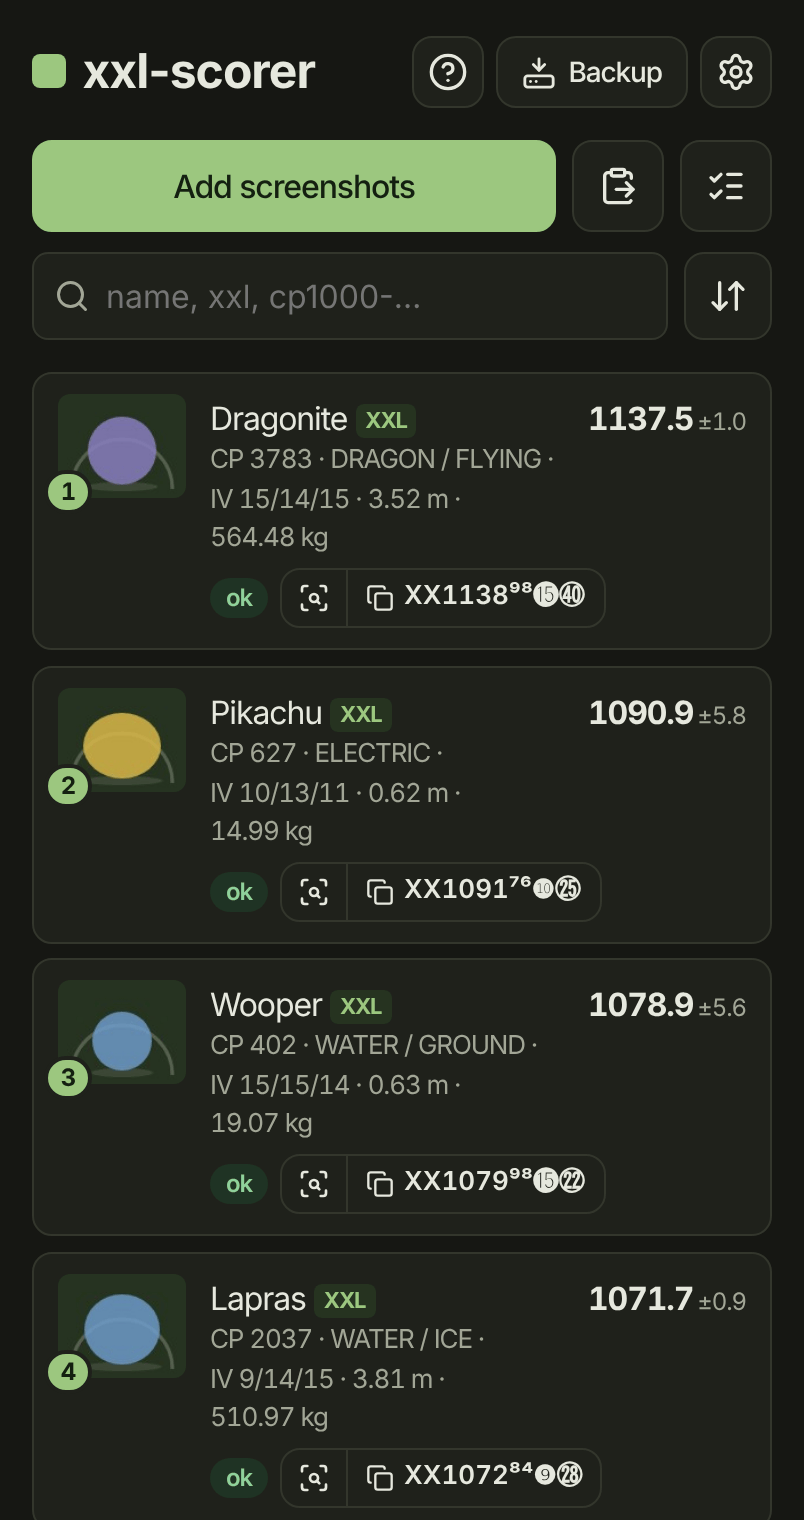
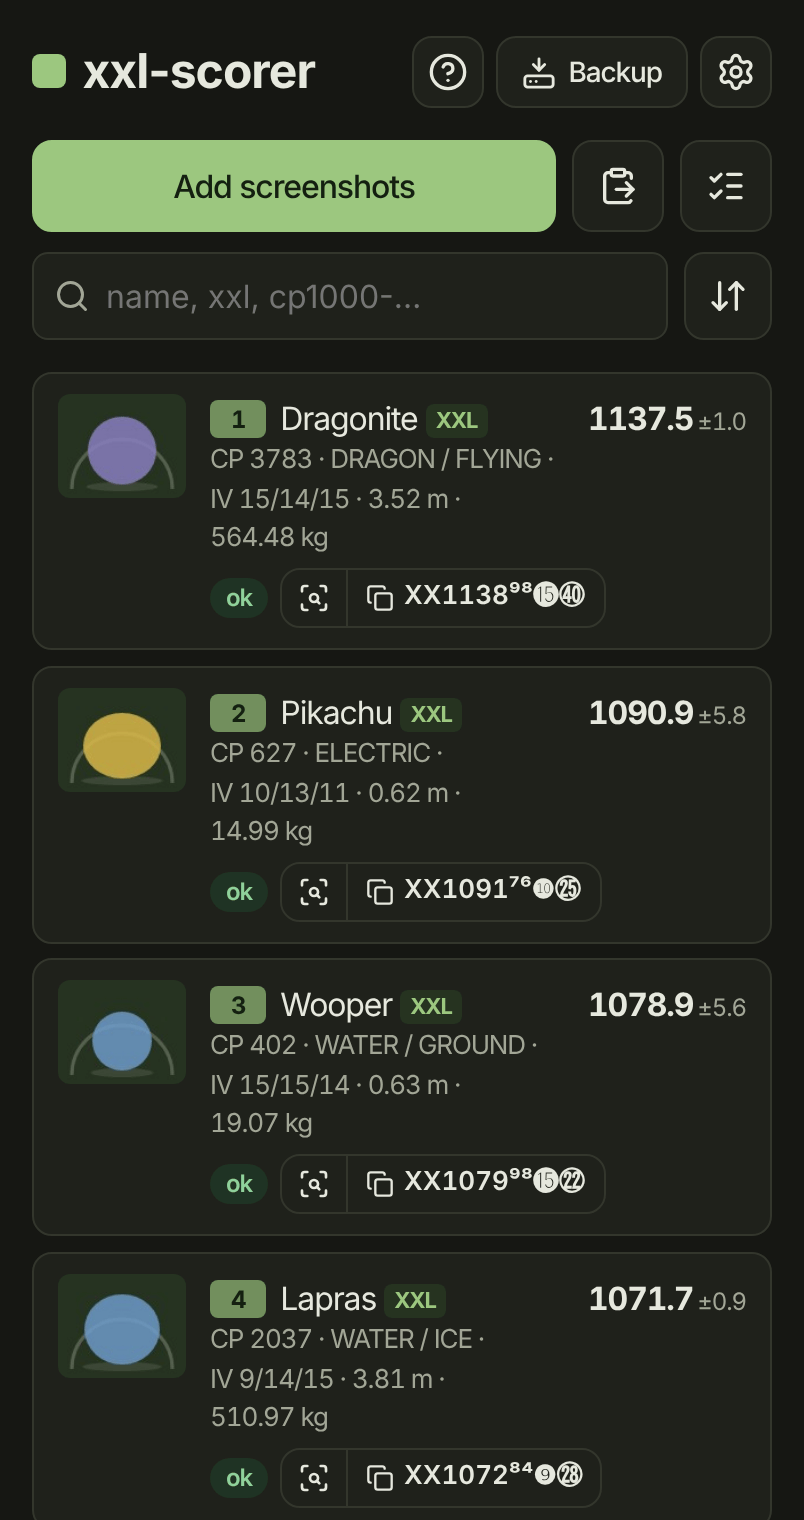
Rank before the name, tinted, not on the picture
On the picture the badge covered too much of the small thumbnail. It
now stands in front of the name, as a tag like the XXL one, two digits
wide so the names line up from 9 to 10. The top ten are tinted with the
accent two thirds into the card colour (new --rank-top tokens: text
contrast 5.6 light, 4.6 dark); 11 and up stay grey.

README pictures redrawn.

diff --git a/app.css b/app.css
@@ -8,6 +8,8 @@
 	--accent: #4d7a3a;
 	--accent-text: #ffffff;
 	--accent-soft: #e5eedd;
+	--rank-top: #8aa77b;		/* the accent, two thirds into --surface */
+	--rank-top-text: #23261f;
 	--ok: #2f7a3e;
 	--ok-soft: #e1f0e3;
 	--warn: #94600a;
@@ -28,6 +30,8 @@
 		--accent: #9cc77f;
 		--accent-text: #142010;
 		--accent-soft: #263320;
+		--rank-top: #728f5d;
+		--rank-top-text: #142010;
 		--ok: #8fd19b;
 		--ok-soft: #1f3324;
 		--warn: #f0c46b;
@@ -191,11 +195,11 @@ td.c-thumb { position: relative; }
 .tick { position: absolute; left: 4px; top: 4px; width: 24px; height: 24px; border-radius: 50%; display: grid; place-items: center; font-size: 15px; font-weight: 700; background: rgb(0 0 0 / 0.45); color: #fff; border: 2px solid #fff; }
 /* Select mode keeps the find and copy buttons, so a card doesn't change height (renderRow) */
 body.selecting .pair { opacity: 0.35; }
-/* The place by score in the list shown, on the thumbnail's lower left corner; the top ten
-   filled. The ring in the card's colour sets it off from the thumbnail. */
-.rank { position: absolute; left: 2px; top: 38px; min-width: 24px; height: 22px; padding: 0 5px; box-sizing: border-box; border-radius: 11px; display: grid; place-items: center; font-size: 12px; font-weight: 700; line-height: 1; font-variant-numeric: tabular-nums; background: var(--surface); color: var(--muted); border: 2px solid var(--surface); box-shadow: inset 0 0 0 1px var(--line); }
+/* The place by score in the list shown (setRank), before the name; the top ten tinted. Two
+   digits wide, so the names line up from 9 to 10. */
+.rank { display: inline-block; box-sizing: content-box; min-width: 2ch; padding: 0 6px; margin-right: 7px; border-radius: 4px; font-size: 12px; font-weight: 700; line-height: 19px; text-align: center; vertical-align: 1px; font-variant-numeric: tabular-nums; background: var(--line); color: var(--muted); }
 .rank:empty { display: none; }
-.rank.top { background: var(--accent); color: var(--accent-text); box-shadow: none; }
+.rank.top { background: var(--rank-top); color: var(--rank-top-text); }
 tr.selected .tick { background: var(--accent); color: var(--accent-text); border-color: var(--accent); }
 #ed-title:focus { outline: none; }
 .chip { display: inline-block; font-size: 12px; font-weight: 600; padding: 1px 8px; border-radius: 99px; }
@@ -341,7 +345,6 @@ summary { cursor: pointer; color: var(--muted); }
 	td { padding: 0; white-space: normal; }
 	td.c-thumb { grid-area: t; }
 	td.c-thumb img { width: 64px; height: 52px; }
-	td.c-thumb .rank { left: -7px; top: 38px; }
 	td.c-score { grid-area: s; text-align: right; }
 	td.c-name { grid-area: n; }
 	td.c-meta { display: none; }

diff --git a/src/ui/app.js b/src/ui/app.js
@@ -486,7 +486,7 @@ function scoreCell(e) {
 		e.score ? el('div', { class: 'pm', title: 'Computed score' }, `calc ${e.score.total.toFixed(1)}`) : null];
 }
 
-/** Places 1 to TOP get a filled rank badge, so the end of the top ten stands out. */
+/** Places 1 to TOP get a tinted rank badge, so the end of the top ten stands out. */
 const TOP = 10;
 const ordinal = n => `${n}${[11, 12, 13].includes(n % 100) ? 'th' : ['th', 'st', 'nd', 'rd'][n % 10] || 'th'}`;
 
@@ -510,10 +510,9 @@ function renderRow({ row, e, dup }) {
 		onclick: act, onkeydown: ev => { if (ev.key === 'Enter' || (state.selecting && ev.key === ' ')) { ev.preventDefault(); act(); } },
 	},
 		el('td', { class: 'c-thumb' }, row.thumb ? el('img', { src: row.thumb, alt: '', loading: 'lazy' }) : null,
-			state.selecting ? el('span', { class: 'tick', 'aria-hidden': 'true' }, sel ? '✓' : '') : null,
-			el('span', { class: 'rank' })),
+			state.selecting ? el('span', { class: 'tick', 'aria-hidden': 'true' }, sel ? '✓' : '') : null),
 		el('td', { class: 'c-num c-score' }, ...scoreCell(e)),
-		el('td', { class: 'c-name name' }, e.name || e.id || '?', e.formName ? el('small', {}, ` ${e.formName}`) : null,
+		el('td', { class: 'c-name name' }, el('span', { class: 'rank' }), e.name || e.id || '?', e.formName ? el('small', {}, ` ${e.formName}`) : null,
 			e.xxl ? el('span', { class: 'xxl' }, 'XXL') : e.xxs ? el('span', { class: 'xxl' }, 'XXS') : null, el('div', { class: 'mobile-meta' }, meta)),
 		el('td', { class: 'c-meta c-num', 'data-label': 'CP' }, e.cp ?? '–'),
 		el('td', { class: 'c-meta', 'data-label': 'Type' }, e.types.replace('/', ' / ').toLowerCase()),

diff --git a/README.md b/README.md
@@ -85,9 +85,9 @@ won't run JavaScript modules from `file://`.
    sorts by Newest, CP, Pokédex number, name, IVs or catch date too; pick the current one again
    to reverse it. Right after adding screenshots the list shows the newest first, so new and
    rescanned Pokémon are at the top, ready for their nickname; the button is tinted while the
-   list isn't sorted by score. The number on each picture is the Pokémon's place by score among
-   those shown, whatever the order; the top ten are filled in. Search for a species to see how
-   your Pokémon of it would rank in its showcase.
+   list isn't sorted by score. The number before each name is the Pokémon's place by score
+   among those shown, whatever the order; the top ten are tinted. Search for a species to see
+   how your Pokémon of it would rank in its showcase.
 4. **Search** narrows the list: a name, or the game's own search terms: `cp700-800`, `hp100-`,
    `xxl`, `xxs`, `lucky`, `4*` (stars), `3-4attack`, `rock`, `74` (Pokédex number), `year2024`,
    plus `score1100-`.

diff --git a/CHANGELOG.md b/CHANGELOG.md
@@ -8,8 +8,8 @@ collect under "Unreleased".
 
 ## Unreleased
 
-- Each Pokémon's picture shows its place by score among the Pokémon shown (with a search,
-  among those it finds), whatever the list is sorted by; the top ten are filled in
+- Each Pokémon's name has its place by score in front, among the Pokémon shown (with a
+  search, among those it finds), whatever the list is sorted by; the top ten are tinted
 - Select mode keeps the find and copy buttons (dimmed), so the list no longer jumps when it ends
 
 ## 1.5 - 2026-10-26
